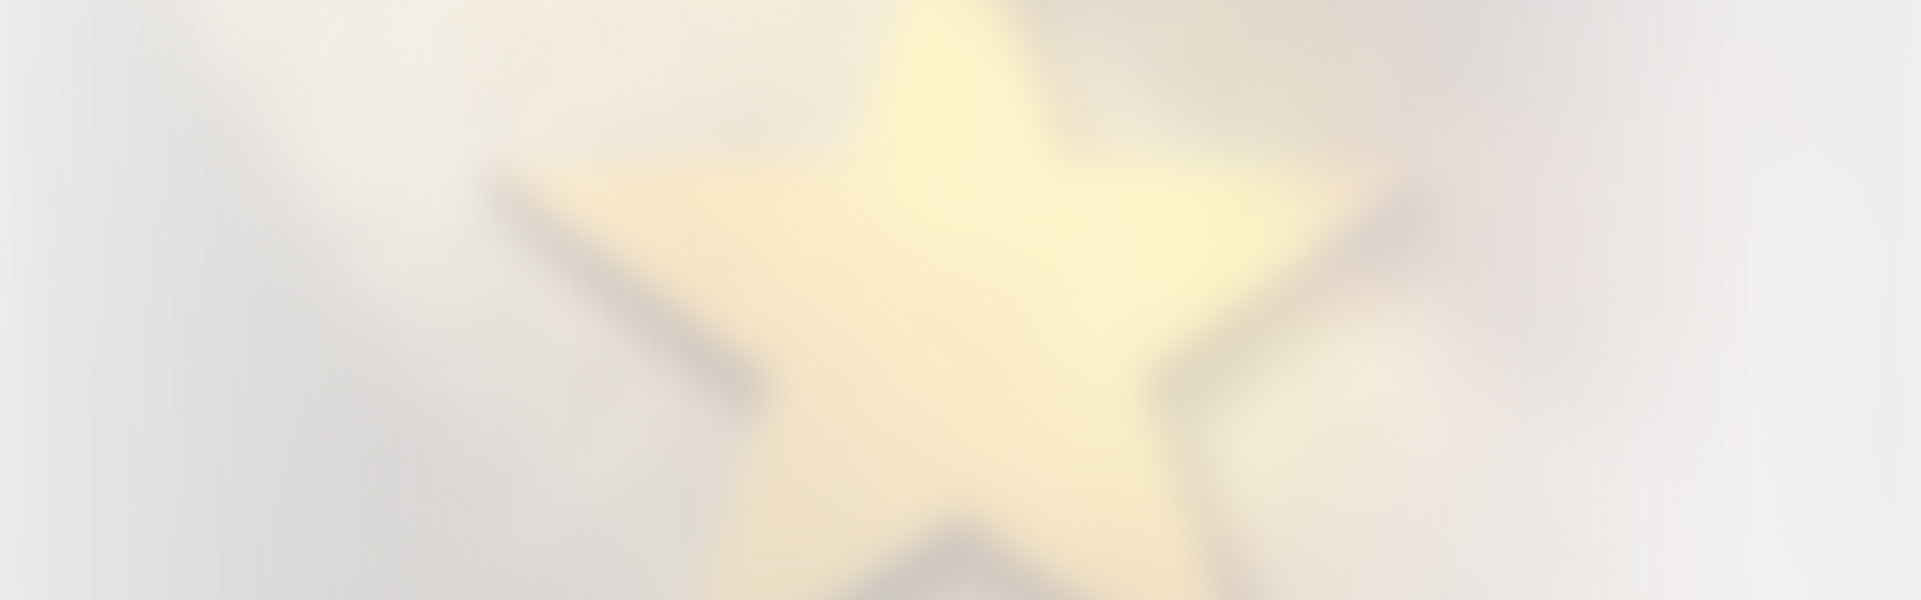
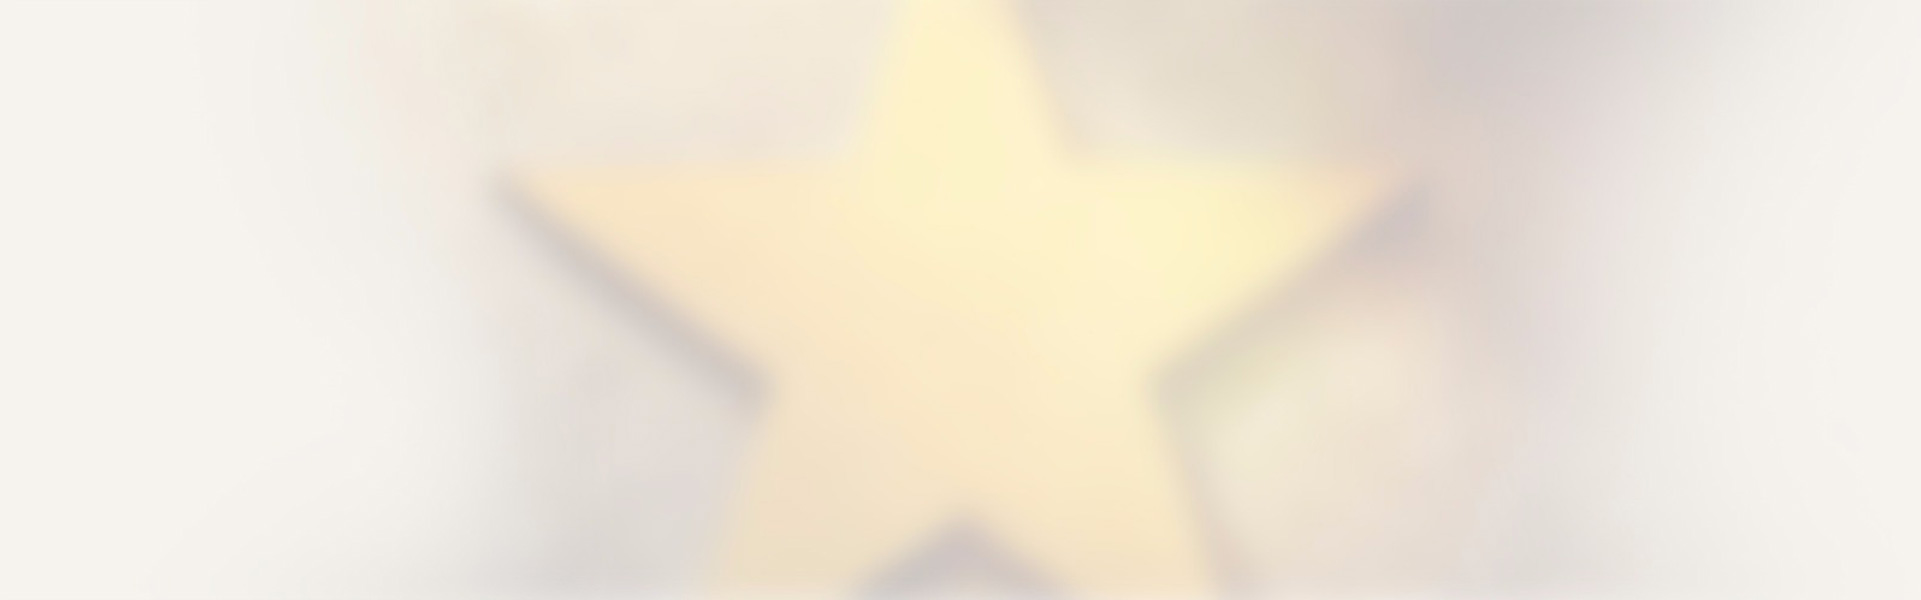
updated content

Changed region(s): [[0.0937, 0.51, 0.2186, 0.96], [0.1249, 0.99, 0.1562, 1.0]]

diff --git a/src/_modules/summary-banner/summary-banner.scss b/src/_modules/summary-banner/summary-banner.scss
@@ -6,7 +6,7 @@
   position: relative;
   justify-content: center;
   align-items: center;
-  background-color: #EEEEEE;
+  background-color: #f6f3ee;
   background-position: center center;
   background-size: auto 100%;
   background-repeat: no-repeat;
@@ -16,6 +16,19 @@
 
 .summary-banner__content {
   max-width: 400px;
+  line-height: 1.5;
+
+  .quote {
+    color: $gold;
+    font-size: 1.75rem;
+    line-height: 12px;
+    font-style: italic;
+
+    &:first-child {
+      margin-left: -13px;
+      margin-right: 3px;
+    }
+  }
 
   .name,
   .title,

diff --git a/src/_modules/dare2b-banner/dare2b-banner.scss b/src/_modules/dare2b-banner/dare2b-banner.scss
@@ -81,6 +81,10 @@
   background-repeat: no-repeat;
   max-width: 1080px;
   margin: 0 auto;
+
+  .is-reversed & {
+    background-position: left center;
+  }
 }
 
 .dare2b-banner__content {
@@ -89,6 +93,10 @@
   line-height: 1.4;
   position: relative;
   z-index: 2;
+
+  .is-reversed & {
+    margin-left: auto;
+  }
 }
 
 .dare2b-banner__text {

diff --git a/src/_modules/banner-nav/banner-nav.scss b/src/_modules/banner-nav/banner-nav.scss
@@ -12,8 +12,8 @@
 }
 
 .banner-nav__item {
-  width: 16px;
-  height: 16px;
+  width: 12px;
+  height: 12px;
   border: 2px solid #fff;
   display: block;
   margin: 4px 0;
